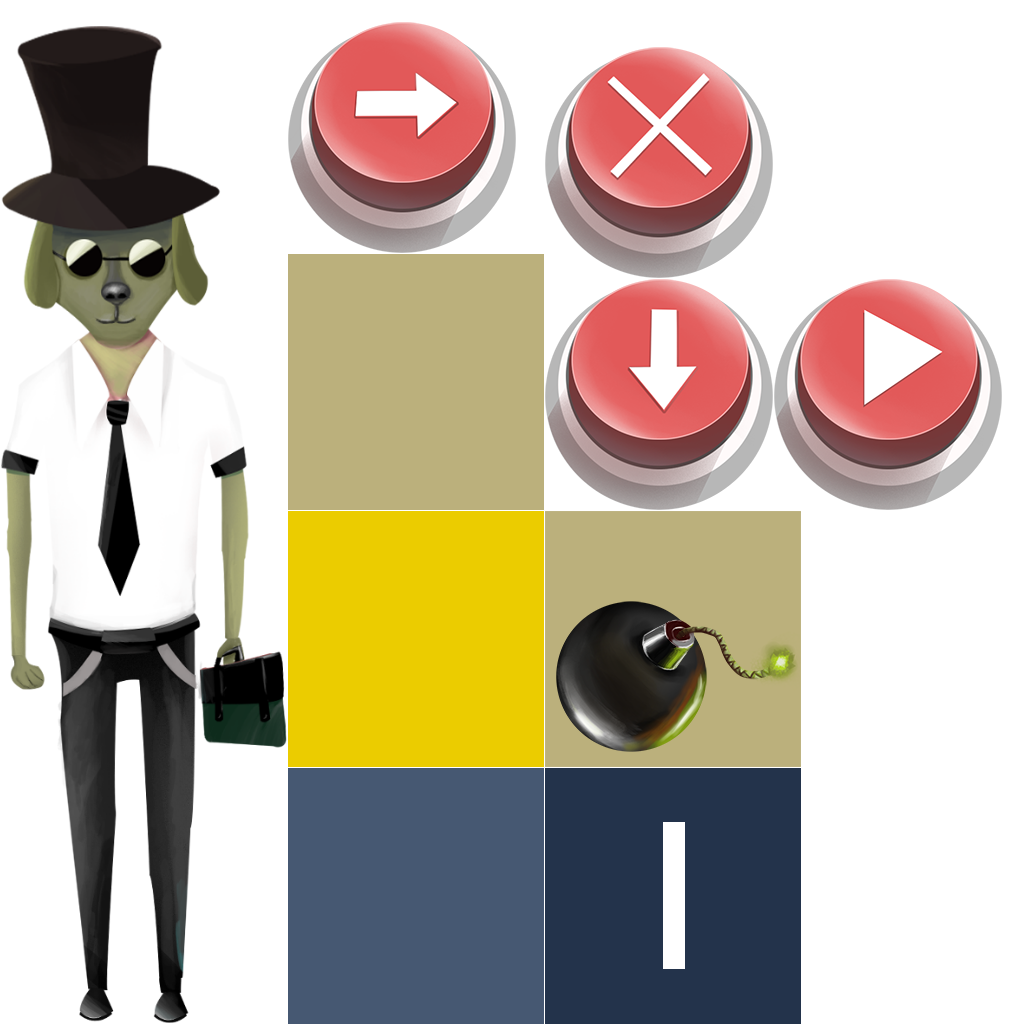
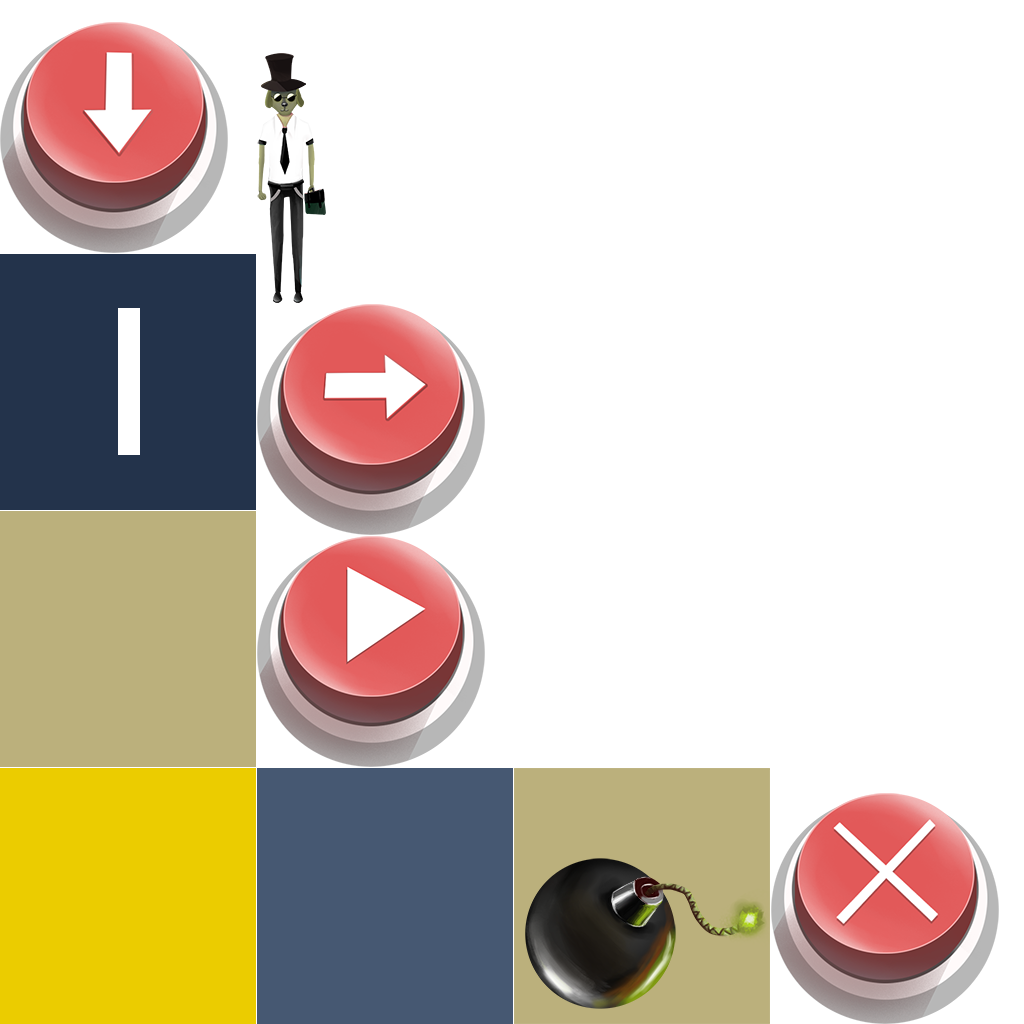
Adjust UI

diff --git a/Assets/Code/Logic/UI/Initer/PathGridIniter.cs b/Assets/Code/Logic/UI/Initer/PathGridIniter.cs
@@ -15,12 +15,13 @@ public class PathGridIniter : MonoBehaviour {
         int screen_width = Screen.width;
         int screen_height = Screen.height;
         int grid_interval = 5;
-        float grid_size = (screen_width - (_data.mapWidth + 1) * grid_interval) / _data.mapWidth;
-        float start_pos_x = (-screen_width / 2) + grid_size / 2 + grid_interval;
+        float grid_size = (720 - (_data.mapWidth - 1) * grid_interval) / _data.mapWidth;
+        float start_pos_x = (-720 / 2) + grid_size / 2;
+        float start_pos_y = 210 + 720 / 2 - grid_size / 2;
+        Debug.Log(grid_size);
+        //transform.localPosition = new Vector3(0, -(25 + grid_size / 2 + 20), 0);    // 25 is LevelLabel pos_y, 20 is LevelLabel's height / 2 + 5
 
-        transform.localPosition = new Vector3(0, -(25 + grid_size / 2 + 20), 0);    // 25 is LevelLabel pos_y, 20 is LevelLabel's height / 2 + 5
-
-        Vector3 gridPos = new Vector3(start_pos_x, 0, 0);
+        Vector3 gridPos = new Vector3(start_pos_x, start_pos_y, 0);
 
         for (int y = 0; y < _data.mapHeight; ++y)
         {
@@ -41,15 +42,17 @@ public class PathGridIniter : MonoBehaviour {
                 }
 
                 grid.transform.parent = transform;
-                grid.transform.localScale = new Vector3(grid_size, grid_size, grid_size);
+                //grid.transform.localScale = new Vector3(grid_size, grid_size, grid_size);
+                grid.GetComponent<UISprite>().SetDimensions((int)grid_size, (int)grid_size);
+                grid.transform.localScale = new Vector3(1, 1, 1);
                 grid.transform.localPosition = gridPos;
                 gridPos += new Vector3(grid_size + grid_interval, 0, 0);
             }
-            gridPos += new Vector3(0, grid_size + grid_interval, 0);
+            gridPos -= new Vector3(0, grid_size + grid_interval, 0);
             gridPos.x = start_pos_x;
         }
 
-        return new Vector3(start_pos_x, transform.localPosition.y, grid_size + grid_interval);
+        return new Vector3(start_pos_x, start_pos_y, grid_size);
     }
 
 

diff --git a/Assets/Code/Logic/UI/Initer/PlayerIniter.cs b/Assets/Code/Logic/UI/Initer/PlayerIniter.cs
@@ -10,12 +10,15 @@ public class PlayerIniter : MonoBehaviour {
 
     public void InitPlayer(Vector3 pos)
     {
-        transform.localPosition = new Vector3(0, pos.y, 0);
         if (player == null)
         {
             player = GlobalManager.Instance.GetAssetsManager.GetGameObject(resPath_Player,"Player");
+            player.transform.parent = transform;
+            player.transform.localPosition = new Vector3(pos.x, pos.y);
+            player.transform.localScale = new Vector3(1,1,1);
+            player.GetComponent<UISprite>().SetDimensions((int)pos.z, (int)pos.z);
         }
 
-        player.GetComponent<Player>().SetPlayerOriginState(new Vector3(pos.x,0,pos.z));
+        //player.GetComponent<Player>().SetPlayerOriginState(new Vector3(pos.x,0,pos.z));
     }
 }
